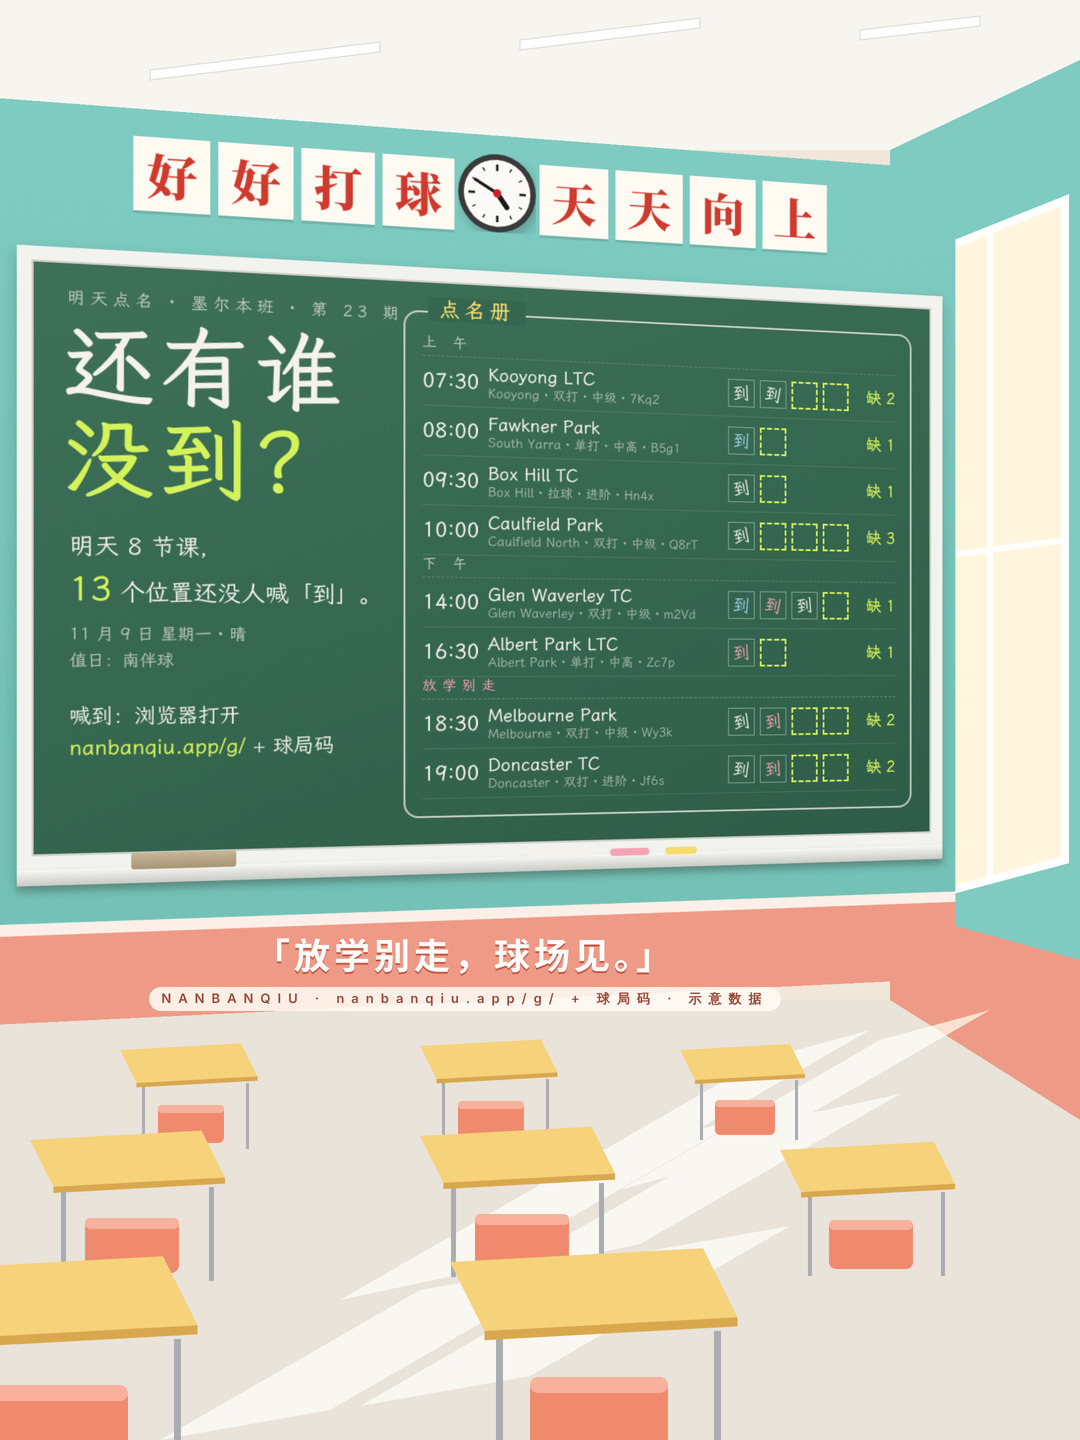
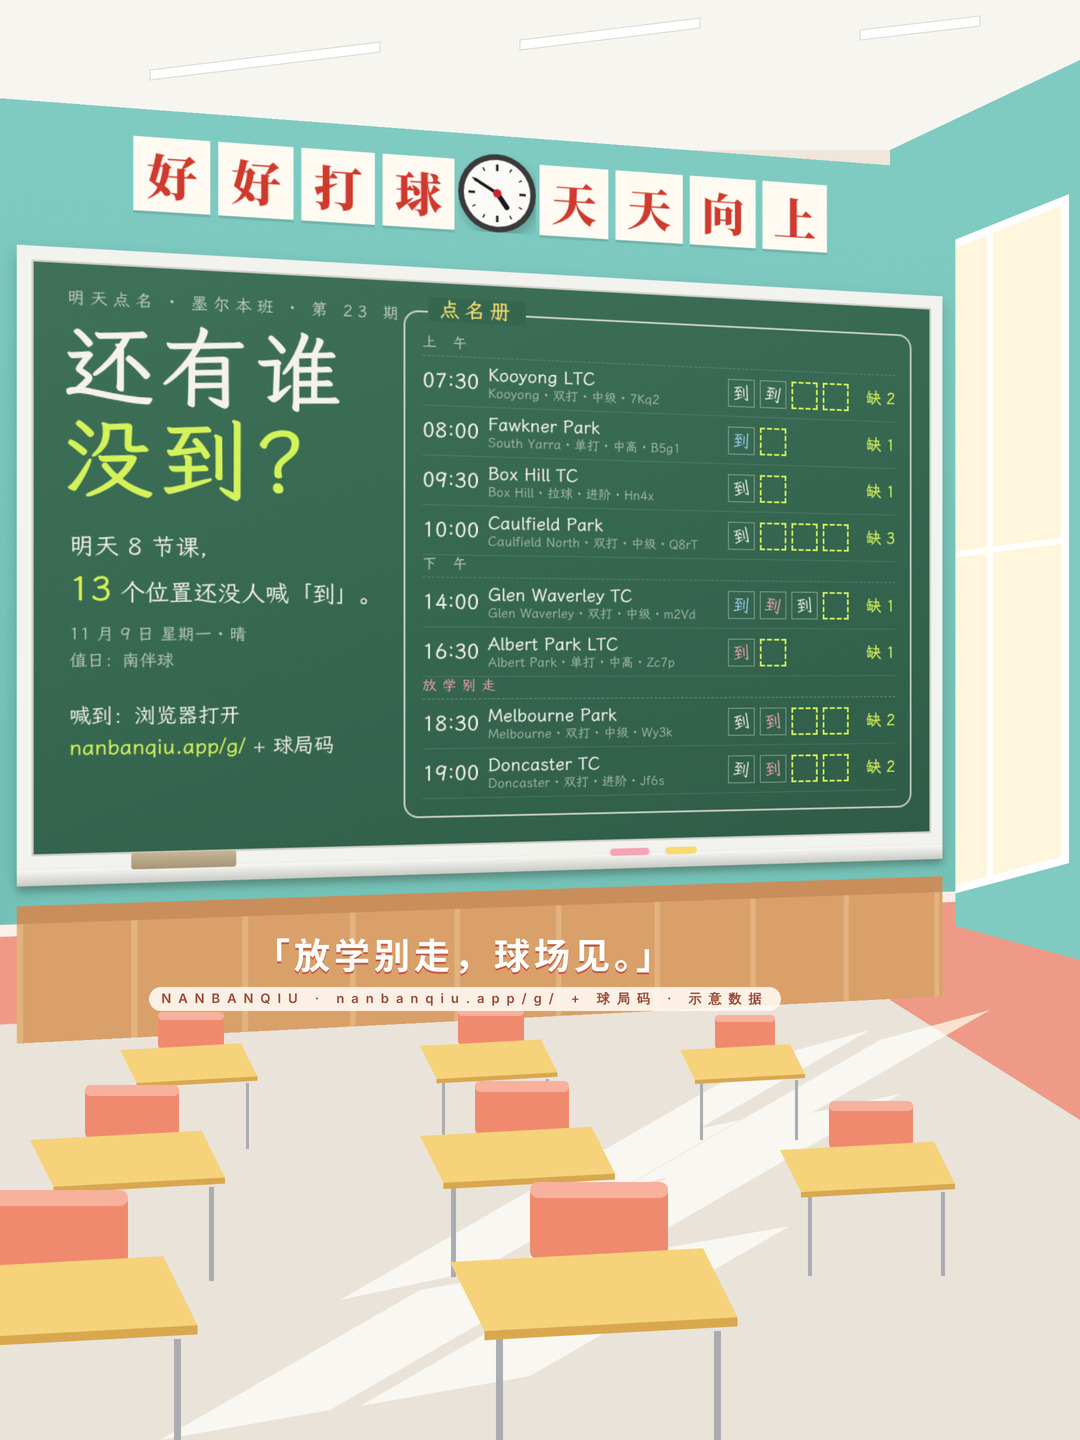
动画版、斜角版改成教室后墙的黑板报：去掉讲台换储物柜，椅子改到课桌后面
出图检查通过。

Claude-Session: https://claude.ai/code/session_014vi3eYkzAwaNbsywDq4bQj

diff --git a/marketing/digest/angle.py b/marketing/digest/angle.py
@@ -21,13 +21,18 @@ body{{width:{W}px;height:{H}px;overflow:hidden;position:relative;font-family:{WK
 .scene{{position:absolute;inset:0;perspective:1700px;perspective-origin:62% 46%}}
 .front{{position:absolute;left:-30px;top:96px;width:1060px;height:930px;transform-origin:0 50%;transform:rotateY({ROT}deg);background:linear-gradient(180deg,#7FCBC1 0%,#74C2B7 70%)}}
 .front .dado{{position:absolute;left:0;right:0;top:830px;bottom:0;background:#EE9A86}} .front .dado::before{{content:'';position:absolute;left:0;right:0;top:0;height:12px;background:#FBEFE8}}
-.slog{{position:absolute;top:28px;display:flex;gap:8px}} .slog.l{{right:576px}} .slog.r{{left:576px}}
+.slog{{position:absolute;top:28px;display:flex;gap:8px}} .slog.l{{right:576px}} .slog.r{{left:576px}} .slog.r i:last-child{{margin-right:0}}
 .slog i{{font-style:normal;width:76px;height:76px;display:flex;align-items:center;justify-content:center;font-family:{SERIF};font-weight:900;font-size:50px;color:#D03A2E;background:#FFFBF2;box-shadow:0 3px 0 rgba(0,0,0,.1)}}
 .clock{{position:absolute;left:488px;top:20px}}
 .bwrap{{position:absolute;left:44px;top:146px;width:1000px;height:630px}}
 .board{{position:absolute;inset:0;background:linear-gradient(160deg,#3F7158 0%,#356650 55%,#2F5C48 100%);border:14px solid #F2F2EE;box-shadow:inset 0 0 0 2px #CFCFC8,0 8px 14px rgba(30,60,55,.25)}}
 .board .tab{{background:#356650}}
 .tray{{left:-14px;right:-14px;bottom:-30px;height:16px;background:linear-gradient(180deg,#F7F7F3,#C9CBC5)}}
+.cab{{position:absolute;left:44px;top:812px;width:1000px;height:18px;background:#C98E5C;box-shadow:0 120px 0 0 #E2B37F}}
+.cab::after{{content:'';position:absolute;left:0;right:0;top:18px;height:120px;background:repeating-linear-gradient(90deg,#E2B37F 0 6px,#D9A06A 6px 110px)}}
+.cab i{{display:none}}
+.flag{{position:absolute;left:880px;top:30px;width:120px;height:76px;background:#E33A30;clip-path:polygon(0 0,100% 18%,0 100%);box-shadow:none}} .flag::before{{content:'';position:absolute;left:-6px;top:-10px;width:5px;height:110px;background:#C9A15A}}
+.flag b{{position:absolute;left:8px;top:28px;font-family:{SANS};font-size:13px;color:#FFE27A;letter-spacing:1px}}
 .sun{{mix-blend-mode:screen}}
 .subt{{position:absolute;left:0;right:150px;top:928px;text-align:center;font-family:{SANS};font-weight:700;font-size:36px;letter-spacing:4px;color:#fff;text-shadow:0 2px 0 #C45A46}}
 .cred{{position:absolute;left:0;right:150px;top:990px;text-align:center;font-family:{NUM};font-size:13px;letter-spacing:7px;color:#9A4A3A}}
@@ -48,7 +53,8 @@ body{{width:{W}px;height:{H}px;overflow:hidden;position:relative;font-family:{WK
 </svg>
 <div class="scene"><div class="front"><div class="dado"></div>
  <div class="slog l">{"".join(f"<i>{c}</i>" for c in "好好打球")}</div><svg class="clock" width="84" height="84" viewBox="498 62 84 84">{cinema.clock_svg(540, 104, 36)}</svg><div class="slog r">{"".join(f"<i>{c}</i>" for c in "天天向上")}</div>
- <div class="bwrap"><div class="board">{cinema.board_inner()}</div></div></div></div>
+ <div class="bwrap"><div class="board">{cinema.board_inner()}</div></div>
+ <div class="cab">{''.join('<i></i>' for _ in range(9))}</div></div></div>
 <svg class="L" width="{W}" height="{H}"><defs>{lib.COMMON}</defs>{rows()}</svg>
 <div class="subt">「放学别走，球场见。」</div>
 <div class="cred"><b>NANBANQIU · {SITE}/g/ + 球局码 · 示意数据</b></div></body>'''
@@ -58,8 +64,9 @@ def desk(x, y, s):
     top = f'<path d="M{x} {y} L{x+w} {y-12*s} L{x+w+30*s} {y-12*s+d} L{x+30*s} {y+d}Z" fill="#F6D27A"/><path d="M{x+30*s} {y+d} L{x+w+30*s} {y-12*s+d} L{x+w+30*s} {y-4*s+d} L{x+30*s} {y+8*s+d}Z" fill="#D9A84E"/>'
     legs = ''.join(f'<rect x="{lx:.0f}" y="{y+d:.0f}" width="{6*s:.0f}" height="{120*s:.0f}" fill="#A9ADB2"/>' for lx in (x + 40 * s, x + w + 10 * s))
     cx = x + 70 * s; cy = y + d + 40 * s
+    cy = y - 70 * s
     chair = f'<rect x="{cx:.0f}" y="{cy:.0f}" width="{120*s:.0f}" height="{70*s:.0f}" rx="{10*s:.0f}" fill="#F08A6E"/><rect x="{cx:.0f}" y="{cy:.0f}" width="{120*s:.0f}" height="{14*s:.0f}" rx="{7*s:.0f}" fill="#F7B19C"/>'
-    return f'<g class="art">{legs}{top}{chair}</g>'
+    return f'<g class="art">{chair}{legs}{top}</g>'
 
 def rows():
     out = ''

diff --git a/marketing/digest/anime.py b/marketing/digest/anime.py
@@ -30,7 +30,8 @@ def desk(x, y, w, flip=1):
     box = f'<rect x="{x+26}" y="{y+56}" width="{w-30}" height="56" fill="#5E646B" opacity=".9"/>'
     cx = x + (w - 250) / 2 + 20 * flip
     chair = f'<rect x="{cx}" y="{y+120}" width="250" height="80" rx="16" fill="#F29A3A"/><rect x="{cx}" y="{y+120}" width="250" height="18" rx="9" fill="#FFC27A"/><rect x="{cx+20}" y="{y+196}" width="10" height="200" fill="#8D96A0"/><rect x="{cx+220}" y="{y+196}" width="10" height="200" fill="#8D96A0"/>'
-    return legs + box + top + chair
+    chair = f'<rect x="{cx}" y="{y-110}" width="250" height="110" rx="16" fill="#F29A3A"/><rect x="{cx}" y="{y-110}" width="250" height="18" rx="9" fill="#FFC27A"/><rect x="{cx+20}" y="{y-4}" width="10" height="60" fill="#8D96A0"/><rect x="{cx+220}" y="{y-4}" width="10" height="60" fill="#8D96A0"/>'
+    return chair + legs + box + top
 
 def curtain():
     # 只在右上角飘起，下摆落在黑板右侧外面（不进黑板）
@@ -41,10 +42,20 @@ def curtain():
 
 def doodle():
     # 黑板右上角磁铁贴着的一张涂鸦：网球 + 一行字
-    return f'''<g class="art" transform="translate(540 936) rotate(-3) scale(.72)"><rect x="-58" y="0" width="116" height="138" fill="#FFFDF6" stroke="#E2D9C6" stroke-width="2"/>
+    return f'''<g class="art" transform="translate(540 900) rotate(-3) scale(.62)"><rect x="-58" y="0" width="116" height="138" fill="#FFFDF6" stroke="#E2D9C6" stroke-width="2"/>
 <circle cx="0" cy="58" r="34" fill="#D7EE4E" stroke="#8FA324" stroke-width="3"/><path d="M-26 34 C -8 50, -8 66, -26 82 M26 34 C 8 50, 8 66, 26 82" stroke="#fff" stroke-width="5" fill="none"/>
 <path d="M-40 112 h80" stroke="#E7A64E" stroke-width="4" stroke-linecap="round"/><text x="0" y="128" text-anchor="middle" font-family="{WK}" font-size="13" fill="#B4642A">明天见</text>
 <circle cx="0" cy="2" r="9" fill="#E8484A"/><circle cx="-3" cy="-1" r="3" fill="#fff" opacity=".7"/></g>'''
+
+def cabinets():
+    # 后墙下的一排储物柜（格子柜），柜顶放着书包和一罐网球
+    out = '<rect x="40" y="868" width="1000" height="16" fill="#B07C4E"/><rect x="40" y="884" width="1000" height="150" fill="#E7C08E"/>'
+    for k in range(8):
+        x = 52 + k * 124
+        out += f'<rect x="{x}" y="896" width="112" height="60" rx="4" fill="#D9A86F"/><rect x="{x}" y="964" width="112" height="60" rx="4" fill="#D9A86F"/><circle cx="{x+56}" cy="926" r="4" fill="#9B6A3C"/><circle cx="{x+56}" cy="994" r="4" fill="#9B6A3C"/>'
+    out += '<path d="M120 868 q -6 -50 30 -56 h 60 q 30 6 26 56Z" fill="#4C7FB5"/><rect x="140" y="830" width="70" height="26" rx="5" fill="#3D6B9C"/>'
+    out += '<rect x="820" y="806" width="44" height="62" rx="8" fill="#E9EEF0" stroke="#B9C3C8" stroke-width="2"/><rect x="820" y="822" width="44" height="22" fill="#E45B4B"/><circle cx="842" cy="806" r="18" fill="#DDEB5A" opacity=".0"/>'
+    return out
 
 def html():
     sun = '#FFF0C2'
@@ -79,8 +90,7 @@ body{{width:{W}px;height:{H}px;overflow:hidden;position:relative;font-family:{WK
 <div class="slog l">{"".join(f"<i>{c}</i>" for c in "好好打球")}</div><div class="slog r">{"".join(f"<i>{c}</i>" for c in "天天向上")}</div>
 <div class="bwrap"><div class="board">{cinema.board_inner()}</div></div>
 <svg class="L" width="{W}" height="{H}"><defs>{lib.COMMON}</defs>
-<g><rect x="350" y="880" width="380" height="34" fill="#9A5B33"/><rect x="350" y="880" width="380" height="8" fill="#B8754A"/><rect x="370" y="914" width="340" height="190" fill="#7E4626"/><rect x="370" y="914" width="340" height="12" fill="#5F331B"/>
-<path d="M600 914 L710 914 L710 1104 L540 1104Z" fill="#FFE9B8" opacity=".28"/><rect x="380" y="1104" width="22" height="30" fill="#5F331B"/><rect x="678" y="1104" width="22" height="30" fill="#5F331B"/></g>
+ <g class="art">{cabinets()}</g>
 {doodle()}{desk(-60, 1080, 380, 1)}{desk(760, 1080, 380, -1)}{curtain()}</svg>
 <div class="subt">「放学别走，球场见。」</div>
 <div class="cred"><b>NANBANQIU · {SITE}/g/ + 球局码 · 示意数据</b></div></body>'''

diff --git a/marketing/digest/README.md b/marketing/digest/README.md
@@ -7,8 +7,8 @@
 | `timetable.py` | 明日时刻表，**HTML/CSS 排版**（换行、截断、对齐交给浏览器），`dark` / `light` 两套主题 |
 | `chalk.py` | **时刻表「黑板」版**：「明天，有体育课。」——球局表写成黑板上的课程表（第一节…、午休、晚自习），右上角老师写的日期天气和「值日：南伴球」；空位是黄绿粉笔圈、已有人是涂满的白圈；粉笔颗粒用 SVG 滤镜，黑板有擦痕和上节课残影（15·30·40、Deuce），底部金属粉笔槽。字体霞鹜文楷（OFL），`DIGEST_FONTS` 指向 lxgw-wenkai-webfont 解压目录 |
 | **模板系统** | 黑板报 = **皮肤（每周一换）× 创意（每天轮换）**。皮肤在 `chalkframe.SKINS`：赶集 fair · 春日 meadow · 夜场 night · 花园 garden · 线描 doodle · 国风 guofeng，各自定板色、边框、顶部 / 底部 / 两侧装饰、标题字效（排线 / 多色 / 霓虹 / 空心 / 朱红金边）、信息框样式；装饰只放顶部、底部、四角和边框内侧，标 `class="art"`。创意在 `chalk4.py`：roll / notes / seats。`chalkframe.pick(日期)` → (皮肤, 创意)：皮肤按 ISO 周轮换，创意按星期。出图写法 `chalk4:创意@皮肤`，如 `chalk4:notes@night` |
-| `angle.py` | **「斜角」版**：从教室侧后方看——前墙斜对镜头（CSS 3D 转 14°，越大越立体、越小越好读），黑板占画面主体；「好好打球 天天向上」+ 挂钟；右侧亮窗、地上阳光；三排课桌由近到远；马卡龙配色（青绿墙、珊瑚墙裙）；字幕写在墙裙上 |
-| `anime.py` | **「动画」版**：日系动画背景画风的午后教室——平涂暖色、黑板（点名册同 cinema）、讲台、橙色课桌椅、一点透视米色地砖、窗格阳光只落在地面和讲台、右上角被风吹起的白窗帘、黑板上方「好好打球 天天向上」+ 挂钟，讲台正面图钉钉着一张网球涂鸦「明天见」 |
+| `angle.py` | **「斜角」版**：从教室侧后方看——前墙斜对镜头（CSS 3D 转 14°，越大越立体、越小越好读），黑板占画面主体；「好好打球 天天向上」+ 挂钟；右侧亮窗、地上阳光；黑板下一排储物柜，三排课桌由近到远（椅子在课桌后面）；马卡龙配色（青绿墙、珊瑚墙裙）；字幕写在墙裙上 |
+| `anime.py` | **「动画」版**：日系动画背景画风的午后教室——平涂暖色、黑板（点名册同 cinema）、后墙下一排储物柜（柜顶书包、网球罐）、橙色课桌椅（椅子在课桌后面——镜头从前往后看）、一点透视米色地砖、窗格阳光只落在地面和讲台、右上角被风吹起的白窗帘、黑板上方「好好打球 天天向上」+ 挂钟，储物柜上图钉钉着一张网球涂鸦「明天见」 |
 | `cinema.py` | **「电影镜头」版（按所有者给的教室参考）**：标语 + 挂钟（4:50）；粗实木框黑板（线脚、木粉笔槽、擦痕、粉笔灰）；竖条木墙裙，挂钩上一个书包露出拍头；一束很淡、虚边的窗光斜扫过墙；画面底部是清晰的木课桌桌面。字幕「放学别走，球场见。」 |
 | **教室墙场景**（`+wall`） | 黑板缩到 0.86 倍挂在教室墙中间（0.86：最小 14 号字缩放后仍 ≥ 12 号，Chromium 中文最小字号会把更小的字撑大而压行）。上方红字标语卡片 + 挂钟（指针 = 明天第一局时间），下方仿「轻声细语是一种素养」的彩色墙贴 + 书架。标语 / 墙贴每周轮换（`SLOGANS` 13 句、`STICKERS` 5 组，见 `样稿/教室墙-标语库.jpg`；卡片按字数自动缩放、以挂钟为中心对称），`+wall0` 等可指定第几句。例：`chalk4:roll@fair+wall0` |
 | `chalkframe.py` · `chalk4.py` | **立式小黑板三版（最新推荐）**，共用挂板底子（原木框、彩旗、粉笔槽）：`chalk4:roll`「还有谁没到？」点名册（「到」字笔迹各不相同、举手、晚场叫「放学别走」）· `chalk4:notes`「传纸条。」（磁铁吸在黑板上的真纸条：去吗？□去 □当然去）· `chalk4:seats`「这里有人吗？」（讲台 + 座位表，有人的桌上放着书包，空座是黄绿虚线） |
